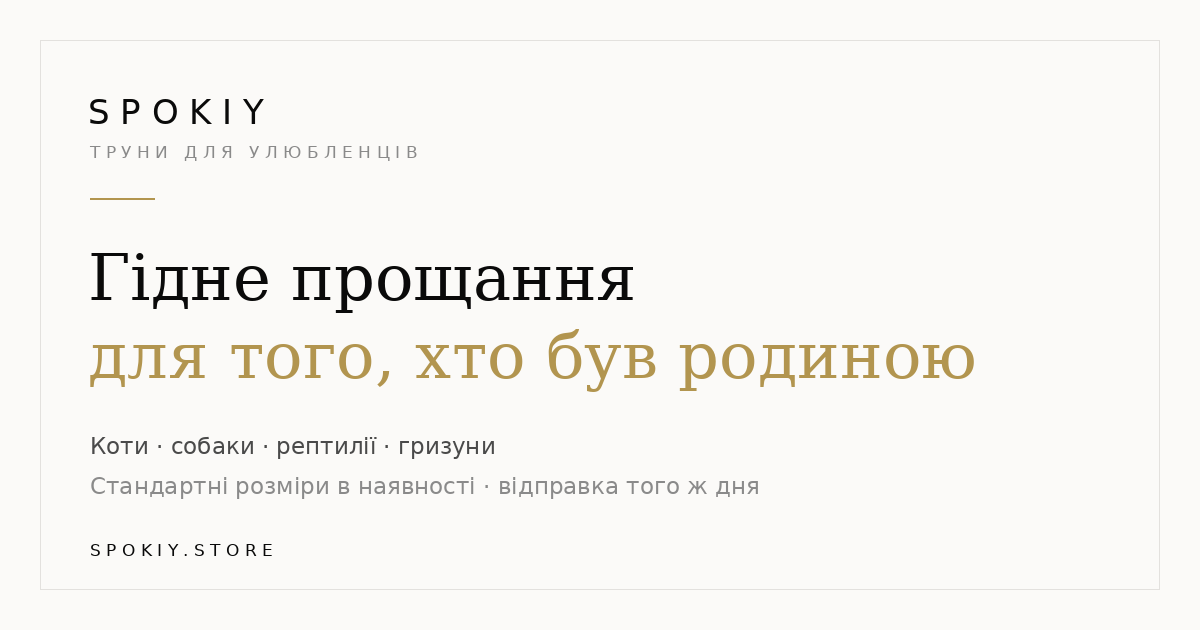
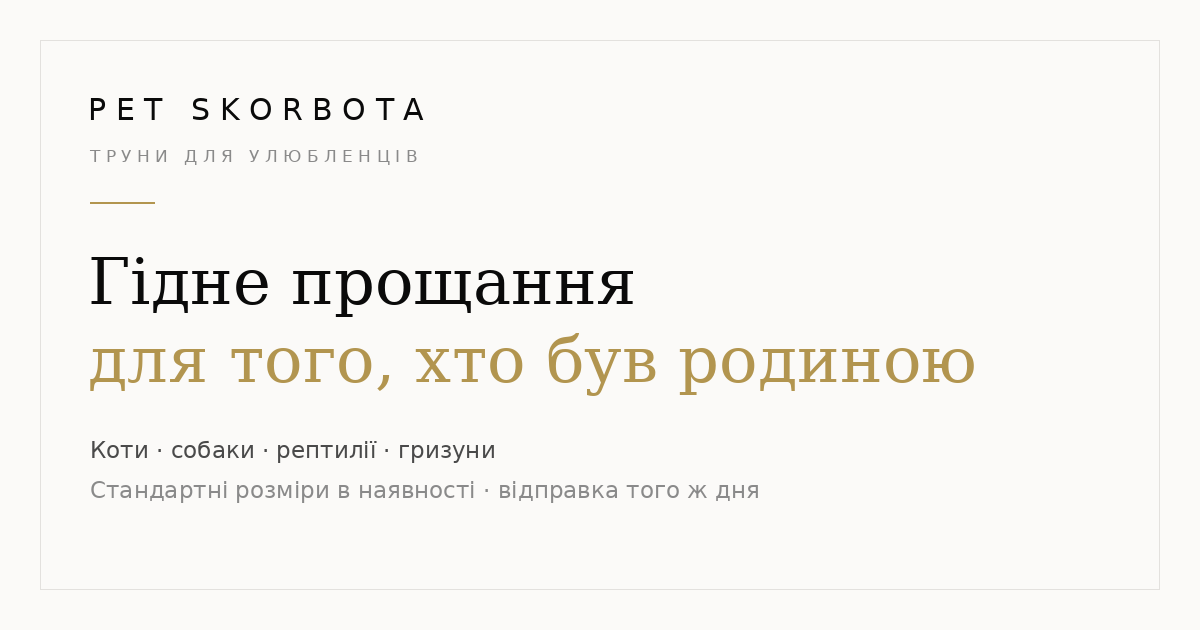
domain новий

diff --git a/lib/mail.ts b/lib/mail.ts
@@ -38,14 +38,14 @@ function transport(): Transporter {
 }
 
 const from = () =>
-  process.env.MAIL_FROM || `SPOKIY <${process.env.SMTP_USER ?? "no-reply@localhost"}>`;
+  process.env.MAIL_FROM || `Pet Skorbota <${process.env.SMTP_USER ?? "no-reply@localhost"}>`;
 
 /** Розбирає `Ім'я <адреса>` на частини — цього вимагає API Brevo */
 function parseFrom(): { name: string; email: string } {
   const raw = from().trim();
   const m = raw.match(/^\s*"?([^"<]*?)"?\s*<([^>]+)>\s*$/);
-  if (m) return { name: m[1].trim() || "SPOKIY", email: m[2].trim() };
-  return { name: "SPOKIY", email: raw.replace(/[<>]/g, "").trim() };
+  if (m) return { name: m[1].trim() || "Pet Skorbota", email: m[2].trim() };
+  return { name: "Pet Skorbota", email: raw.replace(/[<>]/g, "").trim() };
 }
 
 interface Letter {
@@ -128,7 +128,7 @@ export async function mailCustomer(o: Order): Promise<boolean> {
   const html = `
 <div style="font-family:Helvetica,Arial,sans-serif;max-width:560px;margin:0 auto;color:#111;">
   <div style="border-bottom:1px solid #111;padding-bottom:14px;margin-bottom:26px;">
-    <div style="letter-spacing:.32em;font-size:13px;text-transform:uppercase;">SPOKIY</div>
+    <div style="letter-spacing:.32em;font-size:13px;text-transform:uppercase;">Pet Skorbota</div>
   </div>
 
   <p style="font-size:15px;line-height:1.7;">Вітаємо, ${esc(o.first_name)}.</p>
@@ -164,14 +164,14 @@ export async function mailCustomer(o: Order): Promise<boolean> {
   </p>
 
   <div style="border-top:1px solid #e3e1de;margin-top:30px;padding-top:14px;font-size:12px;color:#8a8a8a;">
-    SPOKIY · труни для улюбленців на замовлення
+    Pet Skorbota · труни для улюбленців на замовлення
   </div>
 </div>`;
 
   try {
     await send({
       to: o.email,
-      subject: `Замовлення №${o.id} прийнято — SPOKIY`,
+      subject: `Замовлення №${o.id} прийнято — Pet Skorbota`,
       html,
       text:
         `Вітаємо, ${o.first_name}.\n\nМи отримали ваше замовлення №${o.id}.\n` +
@@ -247,7 +247,7 @@ export async function checkMail(doSend: boolean): Promise<{
 
     await send({
       to: process.env.OWNER_EMAIL,
-      subject: "SPOKIY: перевірка пошти",
+      subject: "Pet Skorbota: перевірка пошти",
       text: `Якщо ви бачите цей лист — сповіщення про замовлення надсилаються правильно. Канал: ${channel}.`,
     });
     return { configured: true, ok: true };

diff --git a/lib/i18n.ts b/lib/i18n.ts
@@ -2,7 +2,7 @@ export type Lang = "uk" | "en";
 
 export const dict = {
   uk: {
-    brand: "SPOKIY",
+    brand: "Pet Skorbota",
     brandSub: "труни для улюбленців · на замовлення",
     navCatalog: "Каталог",
     navAbout: "Про нас",
@@ -20,7 +20,7 @@ export const dict = {
     comfortTitle: "Ми поруч",
     comfortText:
       "Втрата улюбленця — це справжнє горе, і воно не потребує виправдань. Ви не мусите зараз думати про деталі: ми візьмемо це на себе. Кожну труну ми робимо так, ніби прощаємося зі своїм — з увагою до кожного сантиметра, до текстури дерева, до тиші, яка має бути навколо. Обіцяємо: буде зроблено в найкращому вигляді. Ваш улюбленець заслуговує на гідне прощання, і ми про це подбаємо.",
-    comfortSign: "Майстерня SPOKIY",
+    comfortSign: "Майстерня Pet Skorbota",
 
     catalogTitle: "Каталог",
     catalogHint: "Гортайте вбік",
@@ -124,7 +124,7 @@ export const dict = {
   },
 
   en: {
-    brand: "SPOKIY",
+    brand: "Pet Skorbota",
     brandSub: "pet caskets · made to order",
     navCatalog: "Catalogue",
     navAbout: "About",
@@ -142,7 +142,7 @@ export const dict = {
     comfortTitle: "We are here",
     comfortText:
       "Losing a companion is real grief, and it needs no justification. You don't have to think about the details right now — we'll carry that part. Every casket is made the way we would make it for our own: attentive to each centimetre, to the grain of the wood, to the quiet that should surround it. We promise it will be done beautifully. Your companion deserves a dignified farewell, and we will take care of it.",
-    comfortSign: "SPOKIY workshop",
+    comfortSign: "Pet Skorbota workshop",
 
     catalogTitle: "Catalogue",
     catalogHint: "Scroll sideways",

diff --git a/middleware.ts b/middleware.ts
@@ -3,12 +3,12 @@ import { NextResponse, type NextRequest } from "next/server";
 /**
  * Прибираємо з пошуку технічний домен Vercel.
  *
- * Той самий сайт відповідає і на spokiy.store, і на mycoffin.vercel.app.
+ * Той самий сайт відповідає і на petskorbota.store, і на технічній адресі Vercel.
  * Для Google це дві копії одного сайту. Технічну адресу відправляємо
  * на основну постійним редіректом (308).
  *
- * ВАЖЛИВО: apex і www тут НЕ чіпаємо. Перенаправлення між spokiy.store
- * і www.spokiy.store робить сам Vercel у налаштуваннях домену. Якщо
+ * ВАЖЛИВО: apex і www тут НЕ чіпаємо. Перенаправлення між petskorbota.store
+ * і www.petskorbota.store робить сам Vercel у налаштуваннях домену. Якщо
  * дублювати це ще й тут, два редіректи починають гонити запит по колу
  * і сайт лягає з ERR_TOO_MANY_REDIRECTS. Один редірект має бути в одному
  * місці — у Vercel.
@@ -16,7 +16,7 @@ import { NextResponse, type NextRequest } from "next/server";
  * Працює тільки на проді: preview-деплої і localhost не чіпаємо.
  */
 
-const CANONICAL_HOST = (process.env.NEXT_PUBLIC_SITE_URL || "https://spokiy.store")
+const CANONICAL_HOST = (process.env.NEXT_PUBLIC_SITE_URL || "https://petskorbota.store")
   .replace(/^https?:\/\//, "")
   .replace(/\/+$/, "")
   .toLowerCase();

diff --git a/lib/seo.ts b/lib/seo.ts
@@ -2,11 +2,11 @@
  * SEO — одне джерело правди для адреси сайту, розмітки та перевірок.
  *
  * Канонічний домен задається в NEXT_PUBLIC_SITE_URL. Без нього беремо
- * spokiy.store: так canonical і sitemap не зламаються, навіть якщо змінну
+ * petskorbota.store: так canonical і sitemap не зламаються, навіть якщо змінну
  * забули додати в Vercel.
  */
 
-const RAW_SITE = process.env.NEXT_PUBLIC_SITE_URL || "https://spokiy.store";
+const RAW_SITE = process.env.NEXT_PUBLIC_SITE_URL || "https://petskorbota.store";
 
 /** Адреса без слеша в кінці — щоб не плодити //, коли клеїмо шляхи */
 export const SITE_URL = RAW_SITE.replace(/\/+$/, "");
@@ -17,7 +17,7 @@ export const SITE_HOST = SITE_URL.replace(/^https?:\/\//, "");
 export const abs = (path = "/") =>
   `${SITE_URL}${path.startsWith("/") ? path : `/${path}`}`;
 
-export const BRAND = "SPOKIY";
+export const BRAND = "Pet Skorbota";
 
 /** Контакти беремо з тих самих змінних, що показує сайт */
 export const PHONE = process.env.NEXT_PUBLIC_PHONE || "";

diff --git a/app/globals.css b/app/globals.css
@@ -1,5 +1,5 @@
 /* ============================================================
-   SPOKIY — дизайн-система
+   Pet Skorbota — дизайн-система
    Стиль: мінімалізм у дусі SSENSE. Багато повітря, тонкі лінії,
    дрібний капс із широким трекінгом, жодних тіней і заокруглень.
    Палітра: біле · чорне · золото · сіре.
@@ -195,10 +195,14 @@ img {
 }
 
 .brand-word {
-  font-size: clamp(18px, 2.4vw, 26px);
-  letter-spacing: 0.42em;
-  text-indent: 0.42em;
+  /* назва з двох слів довша за попередню — трекінг і кегль зменшені,
+     інакше на вузькому екрані вона не вміщається в центральну колонку */
+  font-size: clamp(16px, 2.2vw, 24px);
+  letter-spacing: 0.28em;
+  text-indent: 0.28em;
   font-weight: 500;
+  text-transform: uppercase;
+  white-space: nowrap;
 }
 
 .brand-sub {

diff --git a/app/admin/page.tsx b/app/admin/page.tsx
@@ -309,7 +309,7 @@ export default function AdminPage() {
       <div className="login-wrap">
         <form className="login-card" onSubmit={login}>
           <div className="brand-word" style={{ textAlign: "center" }}>
-            SPOKIY
+            Pet Skorbota
           </div>
           <div
             className="caps muted"
@@ -344,7 +344,7 @@ export default function AdminPage() {
       <div className="admin-head">
         <div>
           <div className="brand-word" style={{ textAlign: "left", fontSize: 20 }}>
-            SPOKIY
+            Pet Skorbota
           </div>
           <div className="caps muted" style={{ marginTop: 8 }}>
             Панель керування

diff --git a/lib/telegram.ts b/lib/telegram.ts
@@ -97,7 +97,7 @@ export async function checkTelegram(send: boolean): Promise<{
       headers: { "Content-Type": "application/json" },
       body: JSON.stringify({
         chat_id: chatId,
-        text: "SPOKIY: перевірка зв'язку. Якщо ви це бачите — сповіщення про замовлення працюють.",
+        text: "Pet Skorbota: перевірка зв'язку. Якщо ви це бачите — сповіщення про замовлення працюють.",
       }),
     });
     const json = await res.json();

diff --git a/lib/categories.ts b/lib/categories.ts
@@ -17,7 +17,7 @@ export interface CategorySection {
 }
 
 export interface Category {
-  /** адреса: spokiy.store/<slug> */
+  /** адреса сторінки: /<slug> */
   slug: string;
   pet: PetKind;
   /** <title> сторінки */

diff --git a/README.md b/README.md
@@ -1,4 +1,4 @@
-# SPOKIY — сайт «труни для улюбленців на замовлення»
+# Pet Skorbota — сайт «труни для улюбленців на замовлення»
 
 Сайт на украинском с переключателем на английский. Каталог по 4 типам животных
 (кот, пёс, рептилия, грызун) по 5 моделей в каждом, калькулятор размера гроба
@@ -23,7 +23,7 @@
 | `app/globals.css` | вся вёрстка и цвета |
 | `supabase.sql` | схема базы данных |
 
-Поменять название «SPOKIY», подзаголовок и любой текст — `lib/i18n.ts`.
+Поменять название «Pet Skorbota», подзаголовок и любой текст — `lib/i18n.ts`.
 Поменять цвета — первые строки `app/globals.css` (блок `:root`).
 
 ---
@@ -109,7 +109,7 @@
    SMTP_SECURE=true
    SMTP_USER=твоя_почта@gmail.com
    SMTP_PASS=шестнадцать_символов_от_google
-   MAIL_FROM="SPOKIY <твоя_почта@gmail.com>"
+   MAIL_FROM="Pet Skorbota <твоя_почта@gmail.com>"
    OWNER_EMAIL=твоя_почта@gmail.com
    ```
 4. Заодно заполни реквизиты — их клиент увидит после заказа и получит в письме:
